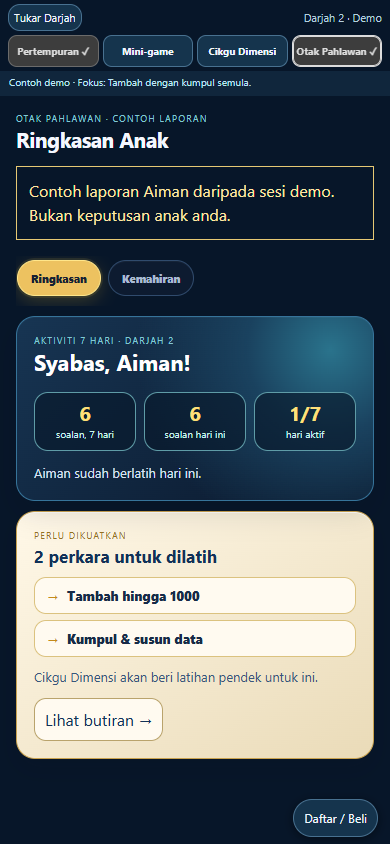
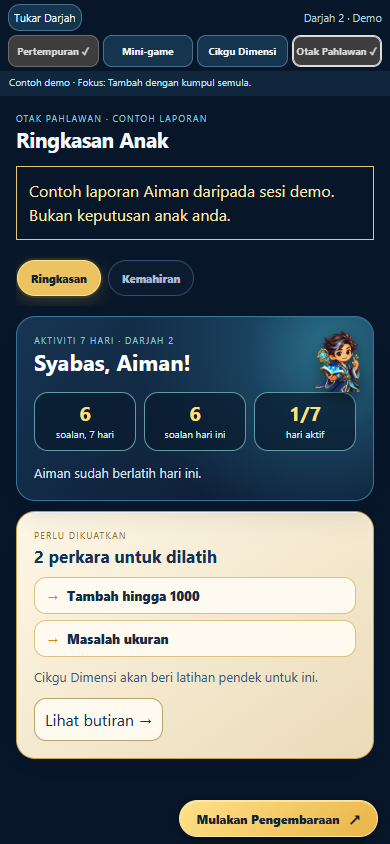
Use approved point-form demo explanations with isometric SVG decoration

Changed region(s): [[0.4615, 0.9242, 0.9846, 1.0], [0.8, 0.3697, 0.9231, 0.4929], [0.1846, 0.7393, 0.5231, 0.7701]]

diff --git a/index.html b/index.html
@@ -351,7 +351,7 @@
 <div id="guardianFocusOverlay" class="guardianFocusOverlay hidden" role="dialog" aria-modal="true" aria-labelledby="guardianFocusTitle"><div class="guardianFocusCard"><div class="eyebrow">LATIHAN FOKUS PENJAGA</div><h2 id="guardianFocusTitle">Kemahiran</h2><p id="guardianFocusEvidence"></p><p class="guardianFocusNote">Soalan dikunci pada kemahiran ini. Cikgu Dimensi akan beri petunjuk bertingkat dan turun kepada contoh lebih mudah apabila perlu.</p><div class="focusCount" aria-label="Bilangan soalan"><button type="button" data-focus-count="5" onclick="chooseGuardianCount(5)">5 soalan</button><button type="button" data-focus-count="10" onclick="chooseGuardianCount(10)">10 soalan</button><button type="button" data-focus-count="15" onclick="chooseGuardianCount(15)">15 soalan</button></div><div class="guardianFocusActions"><button class="btn primary" onclick="startGuardianFocus()">Mulakan latihan</button><button class="btn ghost" onclick="closeGuardianFocus()">Batal</button></div></div></div>
 </div>
 <script src="data/kssr/knowledge-graph.js?v=3.86.52"></script><script src="data/kssr/mastery-knowledge-v1.js?v=3.10.0"></script><script src="data/kssr/alignment-v3.9.0.js?v=3.10.0"></script><script src="data/kssr/d3-topic7-curriculum-correction-v3.38.0.js?v=3.38.0"></script><script src="data/kssr/d3-topic7-evidence-epoch-v3.39.0.js?v=3.39.0"></script><script src="data/kssr/d3-topic7-live-cutover-v3.40.0.js?v=3.52.0"></script><script src="data/kssr/d3-nonT7-live-isolation-v1.0.0.js?v=3.52.0"></script><script src="questions/helpers.js?v=3.87.12-mstack2"></script><script src="questions/d1/core.js?v=3.86.63"></script><script src="questions/d2/topic-1.js?v=3.86.60"></script><script src="questions/d2/topic-2.js"></script><script src="questions/d2/topic-3.js?v=3.85.41"></script><script src="questions/d2/topic-4.js"></script><script src="questions/d2/topic-5.js?v=3.85.27"></script><script src="questions/d2/topic-6.js"></script><script src="questions/d2/topic-7.js?v=3.86.96"></script><script src="questions/d2/topic-8.js"></script><script src="questions/d3/core.js?v=3.8.0"></script><script src="questions/d4/core.js?v=3.8.0"></script><script src="questions/d5/core.js?v=3.14.5"></script><script src="questions/d6/core.js?v=3.8.30"></script><script src="questions/kssr-archetypes-v3.9.0.js?v=3.12.0"></script><script src="questions/kssr-content-v3.11.js?v=3.87.9-mgroup1"></script><script src="questions/v2/dist/runtime.js?v=3.87.75"></script><script src="questions/v2/engine/d3-rollout.js?v=3.52.0"></script><script src="questions/v2/engine/legacy-adapter.js?v=3.86.87"></script><script src="js/engine/reading-pairs-v1.js?v=1.0.0"></script><script src="questions/focus-tags-d2-d5-v1.js?v=1.0.0"></script><script src="questions/index.js?v=3.87.0"></script><script src="js/engine/diagnostic-brain-v1.js?v=1.10.0"></script><script src="js/engine/diagnostic-targets-v1.js?v=1.8.0"></script>
-<script src="js/engine/diagnostic-recheck-v1.js?v=1.5.0"></script><script src="js/engine/review-queue-v1.js?v=1.0.0"></script><script src="js/rapid-lock-v1.js?v=1.4.3"></script><script src="js/minigame-telemetry-v1.js?v=1.5.0"></script><script src="js/engine/telemetry.js?v=3.56.0-diag2"></script><script src="js/engine/intervention.js?v=3.57.1"></script><script src="js/engine/frontier.js?v=3.57.1"></script><script src="js/engine/adaptive.js?v=3.85.18"></script><script src="js/heroes.js?v=3.86.72"></script><script src="js/progression.js?v=3.87.57"></script><script src="js/rewards-v2.js?v=3.85.54"></script><script src="js/learning.js?v=3.85.76"></script><script src="js/audio.js?v=3.85.17"></script><script src="js/combat-motion-v1.js?v=3.86.72"></script><script src="js/battle.js?v=3.86.31-diag1"></script><script src="js/parent-glance-v1.js?v=1.1.0"></script><script src="js/parent.js?v=3.87.1"></script><script src="js/worksheet-2p5d-v1.js?v=1.0.0"></script><script src="js/worksheet-graphics-v1.js?v=3.86.87"></script><script src="js/parent-learning-tools-v3.26.0.js?v=3.87.7"></script><script src="js/engine/focus-foundation-v1.js?v=3.87.1"></script><script src="js/guardian-focus.js?v=3.87.1"></script><script src="js/app.js?v=3.87.75"></script><script src="js/battle-story-v3.60.0.js?v=3.60.0"></script><script src="js/phase-3.6.4.js?v=3.85.18"></script><script src="js/dev-cikgu-dimensi-v3.24.10.js"></script><script src="js/dev-qsv2-v3.36.0.js"></script><script src="js/dev-qsv2-live-v3.40.0.js?v=3.52.0"></script><script src="js/version.js?v=3.87.78"></script><script src="js/pwa.js?v=3.87.71"></script><script src="js/gerai-wirayung-router.js?v=1.1.0"></script><script src="js/engine/focus-money-diagnostic-v2.js?v=2.0.0-shadow"></script><script src="js/engine/focus-time-diagnostic-v1.js?v=1.0.0"></script><script src="js/menara-jam-router.js?v=1.0.0"></script><script src="js/minigame-exit-guard-v1.js?v=3.86.44"></script><script src="js/wirayung-live-bridge.js?v=3.86.98"></script><script src="js/tapak-bina-router.js?v=3.86.52"></script><script src="js/tapak-bina-live-bridge.js?v=3.86.98"></script><script src="js/kedai-kek-router.js?v=1.0.0"></script><script src="js/bengkel-ajaib-router.js?v=1.0.1"></script><script src="js/gudang-harta-router.js?v=1.0.0"></script><script src="js/dapur-ramuan-router.js?v=3.86.48"></script><script src="js/pos-peninjau-router.js?v=3.86.48"></script><script src="js/lombong-permata-router.js?v=3.86.48"></script><script src="js/focus-mini-games-live-bridge.js?v=3.86.98"></script><script src="js/bug-report-v1.js?v=3.86.56"></script><link rel="stylesheet" href="css/bug-report-v1.css?v=3.86.56"><link rel="stylesheet" href="css/responsive-layout-v1.css?v=1.0.6"><link rel="stylesheet" href="css/mission-map-live-v1.css?v=1.0.1"><script defer src="js/dev-khazanah-v1.js?v=3.85.40"></script></body></html>
+<script src="js/engine/diagnostic-recheck-v1.js?v=1.5.0"></script><script src="js/engine/review-queue-v1.js?v=1.0.0"></script><script src="js/rapid-lock-v1.js?v=1.4.3"></script><script src="js/minigame-telemetry-v1.js?v=1.5.0"></script><script src="js/engine/telemetry.js?v=3.56.0-diag2"></script><script src="js/engine/intervention.js?v=3.57.1"></script><script src="js/engine/frontier.js?v=3.57.1"></script><script src="js/engine/adaptive.js?v=3.85.18"></script><script src="js/heroes.js?v=3.86.72"></script><script src="js/progression.js?v=3.87.57"></script><script src="js/rewards-v2.js?v=3.85.54"></script><script src="js/learning.js?v=3.85.76"></script><script src="js/audio.js?v=3.85.17"></script><script src="js/combat-motion-v1.js?v=3.86.72"></script><script src="js/battle.js?v=3.86.31-diag1"></script><script src="js/parent-glance-v1.js?v=1.1.0"></script><script src="js/parent.js?v=3.87.1"></script><script src="js/worksheet-2p5d-v1.js?v=1.0.0"></script><script src="js/worksheet-graphics-v1.js?v=3.86.87"></script><script src="js/parent-learning-tools-v3.26.0.js?v=3.87.7"></script><script src="js/engine/focus-foundation-v1.js?v=3.87.1"></script><script src="js/guardian-focus.js?v=3.87.1"></script><script src="js/app.js?v=3.87.75"></script><script src="js/battle-story-v3.60.0.js?v=3.60.0"></script><script src="js/phase-3.6.4.js?v=3.85.18"></script><script src="js/dev-cikgu-dimensi-v3.24.10.js"></script><script src="js/dev-qsv2-v3.36.0.js"></script><script src="js/dev-qsv2-live-v3.40.0.js?v=3.52.0"></script><script src="js/version.js?v=3.87.79"></script><script src="js/pwa.js?v=3.87.71"></script><script src="js/gerai-wirayung-router.js?v=1.1.0"></script><script src="js/engine/focus-money-diagnostic-v2.js?v=2.0.0-shadow"></script><script src="js/engine/focus-time-diagnostic-v1.js?v=1.0.0"></script><script src="js/menara-jam-router.js?v=1.0.0"></script><script src="js/minigame-exit-guard-v1.js?v=3.86.44"></script><script src="js/wirayung-live-bridge.js?v=3.86.98"></script><script src="js/tapak-bina-router.js?v=3.86.52"></script><script src="js/tapak-bina-live-bridge.js?v=3.86.98"></script><script src="js/kedai-kek-router.js?v=1.0.0"></script><script src="js/bengkel-ajaib-router.js?v=1.0.1"></script><script src="js/gudang-harta-router.js?v=1.0.0"></script><script src="js/dapur-ramuan-router.js?v=3.86.48"></script><script src="js/pos-peninjau-router.js?v=3.86.48"></script><script src="js/lombong-permata-router.js?v=3.86.48"></script><script src="js/focus-mini-games-live-bridge.js?v=3.86.98"></script><script src="js/bug-report-v1.js?v=3.86.56"></script><link rel="stylesheet" href="css/bug-report-v1.css?v=3.86.56"><link rel="stylesheet" href="css/responsive-layout-v1.css?v=1.0.6"><link rel="stylesheet" href="css/mission-map-live-v1.css?v=1.0.1"><script defer src="js/dev-khazanah-v1.js?v=3.85.40"></script></body></html>
 <script src="js/fraction-visuals-v2.js?v=3.87.77"></script><script src="js/fraction-answers-v1.js?v=3.85.08"></script><script src="questions/d1/fractions-audit-v1.js?v=3.86.63"></script>
 <link rel="stylesheet" href="css/fraction-visuals-v2.css?v=3.87.77">
 

diff --git a/jelajah-offer.html b/jelajah-offer.html
@@ -351,7 +351,7 @@
 <div id="guardianFocusOverlay" class="guardianFocusOverlay hidden" role="dialog" aria-modal="true" aria-labelledby="guardianFocusTitle"><div class="guardianFocusCard"><div class="eyebrow">LATIHAN FOKUS PENJAGA</div><h2 id="guardianFocusTitle">Kemahiran</h2><p id="guardianFocusEvidence"></p><p class="guardianFocusNote">Soalan dikunci pada kemahiran ini. Cikgu Dimensi akan beri petunjuk bertingkat dan turun kepada contoh lebih mudah apabila perlu.</p><div class="focusCount" aria-label="Bilangan soalan"><button type="button" data-focus-count="5" onclick="chooseGuardianCount(5)">5 soalan</button><button type="button" data-focus-count="10" onclick="chooseGuardianCount(10)">10 soalan</button><button type="button" data-focus-count="15" onclick="chooseGuardianCount(15)">15 soalan</button></div><div class="guardianFocusActions"><button class="btn primary" onclick="startGuardianFocus()">Mulakan latihan</button><button class="btn ghost" onclick="closeGuardianFocus()">Batal</button></div></div></div>
 </div>
 <script src="data/kssr/knowledge-graph.js?v=3.86.52"></script><script src="data/kssr/mastery-knowledge-v1.js?v=3.10.0"></script><script src="data/kssr/alignment-v3.9.0.js?v=3.10.0"></script><script src="data/kssr/d3-topic7-curriculum-correction-v3.38.0.js?v=3.38.0"></script><script src="data/kssr/d3-topic7-evidence-epoch-v3.39.0.js?v=3.39.0"></script><script src="data/kssr/d3-topic7-live-cutover-v3.40.0.js?v=3.52.0"></script><script src="data/kssr/d3-nonT7-live-isolation-v1.0.0.js?v=3.52.0"></script><script src="questions/helpers.js?v=3.87.12-mstack2"></script><script src="questions/d1/core.js?v=3.86.63"></script><script src="questions/d2/topic-1.js?v=3.86.60"></script><script src="questions/d2/topic-2.js"></script><script src="questions/d2/topic-3.js?v=3.85.41"></script><script src="questions/d2/topic-4.js"></script><script src="questions/d2/topic-5.js?v=3.85.27"></script><script src="questions/d2/topic-6.js"></script><script src="questions/d2/topic-7.js?v=3.86.96"></script><script src="questions/d2/topic-8.js"></script><script src="questions/d3/core.js?v=3.8.0"></script><script src="questions/d4/core.js?v=3.8.0"></script><script src="questions/d5/core.js?v=3.14.5"></script><script src="questions/d6/core.js?v=3.8.30"></script><script src="questions/kssr-archetypes-v3.9.0.js?v=3.12.0"></script><script src="questions/kssr-content-v3.11.js?v=3.87.9-mgroup1"></script><script src="questions/v2/dist/runtime.js?v=3.87.75"></script><script src="questions/v2/engine/d3-rollout.js?v=3.52.0"></script><script src="questions/v2/engine/legacy-adapter.js?v=3.86.87"></script><script src="js/engine/reading-pairs-v1.js?v=1.0.0"></script><script src="questions/focus-tags-d2-d5-v1.js?v=1.0.0"></script><script src="questions/index.js?v=3.87.0"></script><script src="js/engine/diagnostic-brain-v1.js?v=1.10.0"></script><script src="js/engine/diagnostic-targets-v1.js?v=1.8.0"></script>
-<script src="js/engine/diagnostic-recheck-v1.js?v=1.5.0"></script><script src="js/engine/review-queue-v1.js?v=1.0.0"></script><script src="js/rapid-lock-v1.js?v=1.4.3"></script><script src="js/minigame-telemetry-v1.js?v=1.5.0"></script><script src="js/engine/telemetry.js?v=3.56.0-diag2"></script><script src="js/engine/intervention.js?v=3.57.1"></script><script src="js/engine/frontier.js?v=3.57.1"></script><script src="js/engine/adaptive.js?v=3.85.18"></script><script src="js/heroes.js?v=3.86.72"></script><script src="js/progression.js?v=3.87.57"></script><script src="js/rewards-v2.js?v=3.85.54"></script><script src="js/learning.js?v=3.85.76"></script><script src="js/audio.js?v=3.85.17"></script><script src="js/combat-motion-v1.js?v=3.86.72"></script><script src="js/battle.js?v=3.86.31-diag1"></script><script src="js/parent-glance-v1.js?v=1.1.0"></script><script src="js/parent.js?v=3.87.1"></script><script src="js/worksheet-2p5d-v1.js?v=1.0.0"></script><script src="js/worksheet-graphics-v1.js?v=3.86.87"></script><script src="js/parent-learning-tools-v3.26.0.js?v=3.87.7"></script><script src="js/engine/focus-foundation-v1.js?v=3.87.1"></script><script src="js/guardian-focus.js?v=3.87.1"></script><script src="js/app.js?v=3.87.75"></script><script src="js/battle-story-v3.60.0.js?v=3.60.0"></script><script src="js/phase-3.6.4.js?v=3.85.18"></script><script src="js/dev-cikgu-dimensi-v3.24.10.js"></script><script src="js/dev-qsv2-v3.36.0.js"></script><script src="js/dev-qsv2-live-v3.40.0.js?v=3.52.0"></script><script src="js/version.js?v=3.87.78"></script><script src="js/pwa.js?v=3.87.71"></script><script src="js/gerai-wirayung-router.js?v=1.1.0"></script><script src="js/engine/focus-money-diagnostic-v2.js?v=2.0.0-shadow"></script><script src="js/engine/focus-time-diagnostic-v1.js?v=1.0.0"></script><script src="js/menara-jam-router.js?v=1.0.0"></script><script src="js/minigame-exit-guard-v1.js?v=3.86.44"></script><script src="js/wirayung-live-bridge.js?v=3.86.98"></script><script src="js/tapak-bina-router.js?v=3.86.52"></script><script src="js/tapak-bina-live-bridge.js?v=3.86.98"></script><script src="js/kedai-kek-router.js?v=1.0.0"></script><script src="js/bengkel-ajaib-router.js?v=1.0.1"></script><script src="js/gudang-harta-router.js?v=1.0.0"></script><script src="js/dapur-ramuan-router.js?v=3.86.48"></script><script src="js/pos-peninjau-router.js?v=3.86.48"></script><script src="js/lombong-permata-router.js?v=3.86.48"></script><script src="js/focus-mini-games-live-bridge.js?v=3.86.98"></script><script src="js/bug-report-v1.js?v=3.86.56"></script><link rel="stylesheet" href="css/bug-report-v1.css?v=3.86.56"><link rel="stylesheet" href="css/responsive-layout-v1.css?v=1.0.6"><link rel="stylesheet" href="css/mission-map-live-v1.css?v=1.0.1"><script defer src="js/dev-khazanah-v1.js?v=3.85.40"></script></body></html>
+<script src="js/engine/diagnostic-recheck-v1.js?v=1.5.0"></script><script src="js/engine/review-queue-v1.js?v=1.0.0"></script><script src="js/rapid-lock-v1.js?v=1.4.3"></script><script src="js/minigame-telemetry-v1.js?v=1.5.0"></script><script src="js/engine/telemetry.js?v=3.56.0-diag2"></script><script src="js/engine/intervention.js?v=3.57.1"></script><script src="js/engine/frontier.js?v=3.57.1"></script><script src="js/engine/adaptive.js?v=3.85.18"></script><script src="js/heroes.js?v=3.86.72"></script><script src="js/progression.js?v=3.87.57"></script><script src="js/rewards-v2.js?v=3.85.54"></script><script src="js/learning.js?v=3.85.76"></script><script src="js/audio.js?v=3.85.17"></script><script src="js/combat-motion-v1.js?v=3.86.72"></script><script src="js/battle.js?v=3.86.31-diag1"></script><script src="js/parent-glance-v1.js?v=1.1.0"></script><script src="js/parent.js?v=3.87.1"></script><script src="js/worksheet-2p5d-v1.js?v=1.0.0"></script><script src="js/worksheet-graphics-v1.js?v=3.86.87"></script><script src="js/parent-learning-tools-v3.26.0.js?v=3.87.7"></script><script src="js/engine/focus-foundation-v1.js?v=3.87.1"></script><script src="js/guardian-focus.js?v=3.87.1"></script><script src="js/app.js?v=3.87.75"></script><script src="js/battle-story-v3.60.0.js?v=3.60.0"></script><script src="js/phase-3.6.4.js?v=3.85.18"></script><script src="js/dev-cikgu-dimensi-v3.24.10.js"></script><script src="js/dev-qsv2-v3.36.0.js"></script><script src="js/dev-qsv2-live-v3.40.0.js?v=3.52.0"></script><script src="js/version.js?v=3.87.79"></script><script src="js/pwa.js?v=3.87.71"></script><script src="js/gerai-wirayung-router.js?v=1.1.0"></script><script src="js/engine/focus-money-diagnostic-v2.js?v=2.0.0-shadow"></script><script src="js/engine/focus-time-diagnostic-v1.js?v=1.0.0"></script><script src="js/menara-jam-router.js?v=1.0.0"></script><script src="js/minigame-exit-guard-v1.js?v=3.86.44"></script><script src="js/wirayung-live-bridge.js?v=3.86.98"></script><script src="js/tapak-bina-router.js?v=3.86.52"></script><script src="js/tapak-bina-live-bridge.js?v=3.86.98"></script><script src="js/kedai-kek-router.js?v=1.0.0"></script><script src="js/bengkel-ajaib-router.js?v=1.0.1"></script><script src="js/gudang-harta-router.js?v=1.0.0"></script><script src="js/dapur-ramuan-router.js?v=3.86.48"></script><script src="js/pos-peninjau-router.js?v=3.86.48"></script><script src="js/lombong-permata-router.js?v=3.86.48"></script><script src="js/focus-mini-games-live-bridge.js?v=3.86.98"></script><script src="js/bug-report-v1.js?v=3.86.56"></script><link rel="stylesheet" href="css/bug-report-v1.css?v=3.86.56"><link rel="stylesheet" href="css/responsive-layout-v1.css?v=1.0.6"><link rel="stylesheet" href="css/mission-map-live-v1.css?v=1.0.1"><script defer src="js/dev-khazanah-v1.js?v=3.85.40"></script></body></html>
 <script src="js/fraction-visuals-v2.js?v=3.87.77"></script><script src="js/fraction-answers-v1.js?v=3.85.08"></script><script src="questions/d1/fractions-audit-v1.js?v=3.86.63"></script>
 <link rel="stylesheet" href="css/fraction-visuals-v2.css?v=3.87.77">
 

diff --git a/jelajah-runtime.html b/jelajah-runtime.html
@@ -351,7 +351,7 @@
 <div id="guardianFocusOverlay" class="guardianFocusOverlay hidden" role="dialog" aria-modal="true" aria-labelledby="guardianFocusTitle"><div class="guardianFocusCard"><div class="eyebrow">LATIHAN FOKUS PENJAGA</div><h2 id="guardianFocusTitle">Kemahiran</h2><p id="guardianFocusEvidence"></p><p class="guardianFocusNote">Soalan dikunci pada kemahiran ini. Cikgu Dimensi akan beri petunjuk bertingkat dan turun kepada contoh lebih mudah apabila perlu.</p><div class="focusCount" aria-label="Bilangan soalan"><button type="button" data-focus-count="5" onclick="chooseGuardianCount(5)">5 soalan</button><button type="button" data-focus-count="10" onclick="chooseGuardianCount(10)">10 soalan</button><button type="button" data-focus-count="15" onclick="chooseGuardianCount(15)">15 soalan</button></div><div class="guardianFocusActions"><button class="btn primary" onclick="startGuardianFocus()">Mulakan latihan</button><button class="btn ghost" onclick="closeGuardianFocus()">Batal</button></div></div></div>
 </div>
 <script src="data/kssr/knowledge-graph.js?v=3.86.52"></script><script src="data/kssr/mastery-knowledge-v1.js?v=3.10.0"></script><script src="data/kssr/alignment-v3.9.0.js?v=3.10.0"></script><script src="data/kssr/d3-topic7-curriculum-correction-v3.38.0.js?v=3.38.0"></script><script src="data/kssr/d3-topic7-evidence-epoch-v3.39.0.js?v=3.39.0"></script><script src="data/kssr/d3-topic7-live-cutover-v3.40.0.js?v=3.52.0"></script><script src="data/kssr/d3-nonT7-live-isolation-v1.0.0.js?v=3.52.0"></script><script src="questions/helpers.js?v=3.87.12-mstack2"></script><script src="questions/d1/core.js?v=3.86.63"></script><script src="questions/d2/topic-1.js?v=3.86.60"></script><script src="questions/d2/topic-2.js"></script><script src="questions/d2/topic-3.js?v=3.85.41"></script><script src="questions/d2/topic-4.js"></script><script src="questions/d2/topic-5.js?v=3.85.27"></script><script src="questions/d2/topic-6.js"></script><script src="questions/d2/topic-7.js?v=3.86.96"></script><script src="questions/d2/topic-8.js"></script><script src="questions/d3/core.js?v=3.8.0"></script><script src="questions/d4/core.js?v=3.8.0"></script><script src="questions/d5/core.js?v=3.14.5"></script><script src="questions/d6/core.js?v=3.8.30"></script><script src="questions/kssr-archetypes-v3.9.0.js?v=3.12.0"></script><script src="questions/kssr-content-v3.11.js?v=3.87.9-mgroup1"></script><script src="questions/v2/dist/runtime.js?v=3.87.75"></script><script src="questions/v2/engine/d3-rollout.js?v=3.52.0"></script><script src="questions/v2/engine/legacy-adapter.js?v=3.86.87"></script><script src="js/engine/reading-pairs-v1.js?v=1.0.0"></script><script src="questions/focus-tags-d2-d5-v1.js?v=1.0.0"></script><script src="questions/index.js?v=3.87.0"></script><script src="js/engine/diagnostic-brain-v1.js?v=1.10.0"></script><script src="js/engine/diagnostic-targets-v1.js?v=1.8.0"></script>
-<script src="js/engine/diagnostic-recheck-v1.js?v=1.5.0"></script><script src="js/engine/review-queue-v1.js?v=1.0.0"></script><script src="js/rapid-lock-v1.js?v=1.4.3"></script><script src="js/minigame-telemetry-v1.js?v=1.5.0"></script><script src="js/engine/telemetry.js?v=3.56.0-diag2"></script><script src="js/engine/intervention.js?v=3.57.1"></script><script src="js/engine/frontier.js?v=3.57.1"></script><script src="js/engine/adaptive.js?v=3.85.18"></script><script src="js/heroes.js?v=3.86.72"></script><script src="js/progression.js?v=3.87.57"></script><script src="js/rewards-v2.js?v=3.85.54"></script><script src="js/learning.js?v=3.85.76"></script><script src="js/audio.js?v=3.85.17"></script><script src="js/combat-motion-v1.js?v=3.86.72"></script><script src="js/battle.js?v=3.86.31-diag1"></script><script src="js/parent-glance-v1.js?v=1.1.0"></script><script src="js/parent.js?v=3.87.1"></script><script src="js/worksheet-2p5d-v1.js?v=1.0.0"></script><script src="js/worksheet-graphics-v1.js?v=3.86.87"></script><script src="js/parent-learning-tools-v3.26.0.js?v=3.87.7"></script><script src="js/engine/focus-foundation-v1.js?v=3.87.1"></script><script src="js/guardian-focus.js?v=3.87.1"></script><script src="js/app.js?v=3.87.75"></script><script src="js/battle-story-v3.60.0.js?v=3.60.0"></script><script src="js/phase-3.6.4.js?v=3.85.18"></script><script src="js/dev-cikgu-dimensi-v3.24.10.js"></script><script src="js/dev-qsv2-v3.36.0.js"></script><script src="js/dev-qsv2-live-v3.40.0.js?v=3.52.0"></script><script src="js/version.js?v=3.87.78"></script><script src="js/pwa.js?v=3.87.71"></script><script src="js/gerai-wirayung-router.js?v=1.1.0"></script><script src="js/engine/focus-money-diagnostic-v2.js?v=2.0.0-shadow"></script><script src="js/engine/focus-time-diagnostic-v1.js?v=1.0.0"></script><script src="js/menara-jam-router.js?v=1.0.0"></script><script src="js/minigame-exit-guard-v1.js?v=3.86.44"></script><script src="js/wirayung-live-bridge.js?v=3.86.98"></script><script src="js/tapak-bina-router.js?v=3.86.52"></script><script src="js/tapak-bina-live-bridge.js?v=3.86.98"></script><script src="js/kedai-kek-router.js?v=1.0.0"></script><script src="js/bengkel-ajaib-router.js?v=1.0.1"></script><script src="js/gudang-harta-router.js?v=1.0.0"></script><script src="js/dapur-ramuan-router.js?v=3.86.48"></script><script src="js/pos-peninjau-router.js?v=3.86.48"></script><script src="js/lombong-permata-router.js?v=3.86.48"></script><script src="js/focus-mini-games-live-bridge.js?v=3.86.98"></script><link rel="stylesheet" href="css/bug-report-v1.css?v=3.86.56"><link rel="stylesheet" href="css/responsive-layout-v1.css?v=1.0.6"><link rel="stylesheet" href="css/mission-map-live-v1.css?v=1.0.1"><script defer src="js/dev-khazanah-v1.js?v=3.85.40"></script></body></html>
+<script src="js/engine/diagnostic-recheck-v1.js?v=1.5.0"></script><script src="js/engine/review-queue-v1.js?v=1.0.0"></script><script src="js/rapid-lock-v1.js?v=1.4.3"></script><script src="js/minigame-telemetry-v1.js?v=1.5.0"></script><script src="js/engine/telemetry.js?v=3.56.0-diag2"></script><script src="js/engine/intervention.js?v=3.57.1"></script><script src="js/engine/frontier.js?v=3.57.1"></script><script src="js/engine/adaptive.js?v=3.85.18"></script><script src="js/heroes.js?v=3.86.72"></script><script src="js/progression.js?v=3.87.57"></script><script src="js/rewards-v2.js?v=3.85.54"></script><script src="js/learning.js?v=3.85.76"></script><script src="js/audio.js?v=3.85.17"></script><script src="js/combat-motion-v1.js?v=3.86.72"></script><script src="js/battle.js?v=3.86.31-diag1"></script><script src="js/parent-glance-v1.js?v=1.1.0"></script><script src="js/parent.js?v=3.87.1"></script><script src="js/worksheet-2p5d-v1.js?v=1.0.0"></script><script src="js/worksheet-graphics-v1.js?v=3.86.87"></script><script src="js/parent-learning-tools-v3.26.0.js?v=3.87.7"></script><script src="js/engine/focus-foundation-v1.js?v=3.87.1"></script><script src="js/guardian-focus.js?v=3.87.1"></script><script src="js/app.js?v=3.87.75"></script><script src="js/battle-story-v3.60.0.js?v=3.60.0"></script><script src="js/phase-3.6.4.js?v=3.85.18"></script><script src="js/dev-cikgu-dimensi-v3.24.10.js"></script><script src="js/dev-qsv2-v3.36.0.js"></script><script src="js/dev-qsv2-live-v3.40.0.js?v=3.52.0"></script><script src="js/version.js?v=3.87.79"></script><script src="js/pwa.js?v=3.87.71"></script><script src="js/gerai-wirayung-router.js?v=1.1.0"></script><script src="js/engine/focus-money-diagnostic-v2.js?v=2.0.0-shadow"></script><script src="js/engine/focus-time-diagnostic-v1.js?v=1.0.0"></script><script src="js/menara-jam-router.js?v=1.0.0"></script><script src="js/minigame-exit-guard-v1.js?v=3.86.44"></script><script src="js/wirayung-live-bridge.js?v=3.86.98"></script><script src="js/tapak-bina-router.js?v=3.86.52"></script><script src="js/tapak-bina-live-bridge.js?v=3.86.98"></script><script src="js/kedai-kek-router.js?v=1.0.0"></script><script src="js/bengkel-ajaib-router.js?v=1.0.1"></script><script src="js/gudang-harta-router.js?v=1.0.0"></script><script src="js/dapur-ramuan-router.js?v=3.86.48"></script><script src="js/pos-peninjau-router.js?v=3.86.48"></script><script src="js/lombong-permata-router.js?v=3.86.48"></script><script src="js/focus-mini-games-live-bridge.js?v=3.86.98"></script><link rel="stylesheet" href="css/bug-report-v1.css?v=3.86.56"><link rel="stylesheet" href="css/responsive-layout-v1.css?v=1.0.6"><link rel="stylesheet" href="css/mission-map-live-v1.css?v=1.0.1"><script defer src="js/dev-khazanah-v1.js?v=3.85.40"></script></body></html>
 <script src="js/fraction-visuals-v2.js?v=3.87.77"></script><script src="js/fraction-answers-v1.js?v=3.85.08"></script><script src="questions/d1/fractions-audit-v1.js?v=3.86.63"></script>
 <link rel="stylesheet" href="css/fraction-visuals-v2.css?v=3.87.77">
 

diff --git a/js/jelajah-v1.js b/js/jelajah-v1.js
@@ -8,13 +8,13 @@
  function cards(){$('cards').hidden=!grade;$('cards').innerHTML=names.map((name,i)=>`<button data-card="${i}" class="${done.has(i)?'done':''}" ${i&&!battleFinished?'disabled':''} ${active===i?'aria-current="page"':''}><img src="${images[i]}" alt=""><strong>${name}</strong><small>${done.has(i)?'✓ Selesai · ulang':i&&!battleFinished?'Selepas battle':'Teroka'}</small></button>`).join('')}
  function entry(){leave();grade=0;done=new Set();battleFinished=false;log=[];cards();$('changeGrade').hidden=true;$('tourLabel').textContent='Demo Jelajah · Pilih darjah';$('status').textContent='Tanpa akaun · Cuba percuma';$('content').innerHTML=`<section class="panel grade-entry"><img class="entry-hero" src="assets/heroes/wira/frames/idle-loop-0-v1.webp" alt="Wira"><h1>Pilih Darjah</h1><p>Cuba enam soalan pertempuran. Kemudian lihat simulasi bantuan melalui mini-game, Cikgu Dimensi dan contoh laporan.</p><div class="grade-grid">${[1,2,3,4,5,6].map(g=>`<button data-grade="${g}">Darjah ${g}</button>`).join('')}</div><p class="lead">Ini demonstrasi. Bukan penilaian sebenar anak anda.</p></section>`}
  function startBattle(){leave();active=0;log=[];cards();$('changeGrade').hidden=false;$('tourLabel').textContent=`Darjah ${grade} · Demo`;$('status').textContent='Soalan 1–6: kamu jawab. Selepas itu, pilih Mulakan Autopilot.';$('content').innerHTML=`<iframe title="Battlefield asal · Darjah ${grade}" src="jelajah-runtime.html?grade=${grade}" allow="autoplay"></iframe>`;frame=$('content').querySelector('iframe')}
- function complete(index){done.add(index);cards();leave();$('status').textContent=`${names[index]} selesai. Boleh ulang atau pilih kad seterusnya.`;$('content').innerHTML=`<section class="panel"><h2>${names[index]} selesai</h2><p>${index===1?'Syabas! Teruskan dengan latihan Cikgu Dimensi.':'Syabas! Latihan bersama Cikgu Dimensi selesai.'}</p><button data-open="${index}" class="primary">Ulang aktiviti</button><button data-open="${index===1?2:3}">Teruskan ke ${names[index===1?2:3]}</button></section>`}
- function intro(title,text,action){$('activityIntroTitle').textContent=title;$('activityIntroText').textContent=text;$('activityIntroStart').onclick=()=>{$('activityIntro').close();action()};$('activityIntro').showModal()}
+ function complete(index){done.add(index);cards();leave();$('status').textContent=`${names[index]} selesai. Boleh ulang atau pilih kad seterusnya.`;$('content').innerHTML=`<section class="panel"><h2>${names[index]} selesai</h2>${PAJelajahCopy.markup(index===1?'mini':'coach','after',scenario().topic)}<button data-open="${index}" class="primary">Ulang aktiviti</button><button data-open="${index===1?2:3}">Teruskan ke ${names[index===1?2:3]}</button></section>`}
+ function intro(title,text,action){$('activityIntroTitle').textContent=title;$('activityIntroText').innerHTML=text;$('activityIntroStart').onclick=()=>{$('activityIntro').close();action()};$('activityIntro').showModal()}
  function show(index){if(index&&!battleFinished)return;if(index===0){startBattle();return}leave();active=index;cards();const s=scenario(),token=generation;$('status').textContent=`Contoh demo · Fokus: ${s.topic}.`;if(index===3){brain();return}
-  const launch=()=>{$('content').innerHTML='<div class="activity-host" id="activityHost"></div>';const options={snapshot:battleSnapshot,onComplete:()=>{if(token===generation)complete(index)},onExit:()=>{if(token===generation)summary()},onManualComplete:info=>intro('Jom tengok cara','Bagus! Sekarang lihat dua contoh Wira membimbing langkah demi langkah.',()=>info.startAutopilot())};cleanup=(index===1?PAJelajahMiniGame:PAJelajahCoach).mount($('activityHost'),s,options)};
-  intro(index===1?'Berlatih sambil bermain':'Cikgu Dimensi · Latihan campuran',index===1?`Anak kerap tersalah dalam ${s.topic.toLowerCase()}? Mini-game ini membantu menguatkan kemahiran itu. Cuba tiga soalan, kemudian lihat cara Wira membantu. Ini contoh demo.`:`Cikgu Dimensi memberi latihan campuran, dengan lebih soalan tentang ${s.topic.toLowerCase()}, seperti dalam contoh tadi. Cuba enam soalan latihan pilihan Cikgu Dimensi.`,launch)
+  const launch=()=>{$('content').innerHTML='<div class="activity-host" id="activityHost"></div>';const options={snapshot:battleSnapshot,onComplete:()=>{if(token===generation)complete(index)},onExit:()=>{if(token===generation)summary()},onManualComplete:info=>intro('Jom tengok cara',PAJelajahCopy.markup('guide','before'),()=>info.startAutopilot())};cleanup=(index===1?PAJelajahMiniGame:PAJelajahCoach).mount($('activityHost'),s,options)};
+  intro(index===1?'Berlatih sambil bermain':'Cikgu Dimensi · Latihan campuran',PAJelajahCopy.markup(index===1?'mini':'coach','before',s.topic),launch)
  }
- function summary(){leave();cards();$('status').textContent='Battle selesai. Pilih mini-game atau Cikgu Dimensi; lihat contoh laporan selepas itu.';$('content').innerHTML=`<section class="panel"><h2>Aurora berjaya diselamatkan!</h2><p>Contoh tadi menunjukkan kesilapan dalam ${scenario().topic.toLowerCase()}.</p><p>Jom cuba latihan dan permainan untuk menguatkan kemahiran ini.</p><button data-open="1" class="primary">Main mini-game</button><button data-open="2">Jumpa Cikgu Dimensi</button></section>`}
+ function summary(){leave();cards();$('status').textContent='Battle selesai. Pilih mini-game atau Cikgu Dimensi; lihat contoh laporan selepas itu.';$('content').innerHTML=`<section class="panel"><h2>Aurora berjaya diselamatkan!</h2>${PAJelajahCopy.markup('battle','after',scenario().topic)}<button data-open="1" class="primary">Main mini-game</button><button data-open="2">Jumpa Cikgu Dimensi</button></section>`}
  function brain(){done.add(3);cards();$('content').innerHTML=`<section id="parent" class="jelajahParent"><div class="parentTop"><div><div class="eyebrow">OTAK PAHLAWAN · CONTOH LAPORAN</div><h2>Ringkasan Anak</h2></div></div><p class="report-notice">Contoh laporan Aiman daripada sesi demo. Bukan keputusan anak anda.</p><div class="tabs parentTabs"><button data-report="summary" class="active">Ringkasan</button><button data-report="core">Kemahiran</button></div><div id="summaryTab">${battleSnapshot?.reportMarkup||''}</div><div id="coreTab" hidden>${battleSnapshot?.detailMarkup||''}</div></section>`}
  window.tab=name=>{const detail=name==='core';$('summaryTab').hidden=detail;$('coreTab').hidden=!detail;document.querySelectorAll('[data-report]').forEach(b=>b.classList.toggle('active',b.dataset.report===name))};
  $('cards').onclick=e=>{const b=e.target.closest('[data-card]');if(b&&!b.disabled)show(Number(b.dataset.card))};$('changeGrade').onclick=entry;
@@ -34,5 +34,5 @@
   if(d.type==='autopilot-ready'&&!$('autopilotDialog').open)$('autopilotDialog').showModal();
   if(d.type==='resolved')log.push({index:d.index,correct:d.correct,value:d.value,simulated:d.simulated});
   if(d.type==='finished'){battleSnapshot=d.snapshot;battleFinished=true;done.add(0);summary()}
- });entry();
+ });$('autopilotText').innerHTML=PAJelajahCopy.markup('battle','before');entry();
 })();

diff --git a/js/jelajah-copy-v1.js b/js/jelajah-copy-v1.js
@@ -1,0 +1,10 @@
+/* Approved parent copy and decorative static SVG; fun-isometric style, Kelvin Adithya (MIT). */
+(()=>{'use strict';
+const icons={"battle": "<svg viewBox=\"0 0 100 100\" aria-hidden=\"true\"><g stroke=\"#111827\" stroke-width=\"3.5\" stroke-linejoin=\"miter\"><path fill=\"#386d9f\" d=\"M15 32 62 12 89 28 89 68 43 88 15 71Z\"/><path fill=\"#ffe18a\" d=\"m15 32 47-20 27 16-46 21Z\"/><path fill=\"#fff4d1\" d=\"m15 32 28 17v39L15 71Z\"/><path fill=\"#fff\" d=\"m45 36 12-5 9 5-12 5Z\"/><path d=\"m59 54 15-7m-15 20 15-7\" fill=\"none\"/></g></svg>", "mini": "<svg viewBox=\"0 0 100 100\" aria-hidden=\"true\"><g stroke=\"#111827\" stroke-width=\"3.5\" stroke-linejoin=\"miter\"><path fill=\"#386d9f\" d=\"m16 44 13-21 43-5 16 20-2 32-13 8-14-14-24 4-10 13-14-5Z\"/><path fill=\"#91d5c3\" d=\"m16 37 13-21 43-5 16 20-2 32-13 8-14-14-24 4-10 13-14-5Z\"/><path d=\"M31 31v20m-10-8 20-5\" fill=\"none\"/><circle cx=\"66\" cy=\"31\" r=\"4\" fill=\"#ffe18a\"/><circle cx=\"76\" cy=\"44\" r=\"4\" fill=\"#ffe18a\"/></g></svg>", "coach": "<svg viewBox=\"0 0 100 100\" aria-hidden=\"true\"><g stroke=\"#111827\" stroke-width=\"3.5\" stroke-linejoin=\"miter\"><path fill=\"#386d9f\" d=\"m14 37 38-20 37 18v37L51 91 14 72Z\"/><path fill=\"#fff4d1\" d=\"m14 30 38-20 37 18-38 20Z\"/><path fill=\"#ffe18a\" d=\"m14 30 37 18v36L14 65Z\"/><path fill=\"#fff\" d=\"m51 48 38-20v37L51 84Z\"/><path d=\"m24 43 17 8m-17 5 17 8m21-14 17-9m-17 22 17-9\" fill=\"none\"/></g></svg>"};
+const copy={"battle": {"before": ["Enam soalan seterusnya dijawab secara automatik.", "Beberapa jawapan sengaja disalahkan untuk menunjukkan cara kelemahan dikenal pasti.", "Ini contoh demo, bukan penilaian anak anda."], "after": ["Contoh tadi menunjukkan kesilapan berulang pada {topik}.", "Soalan sejenis diberi untuk menyemak kefahaman.", "Seterusnya: mini-game dan latihan untuk kemahiran itu."]}, "mini": {"before": ["Dipilih mengikut kemahiran yang perlukan pengukuhan.", "Dalam demo ini, permainan berkait dengan {topik} yang kerap tersalah tadi.", "Cuba 3 soalan, kemudian lihat 2 contoh bantuan Wira. Tekan Seterusnya ikut keselesaan anda."], "after": ["Wira membantu apabila anak belum memahami caranya.", "Anak diberi peluang mencuba lagi untuk menguatkan kemahiran."]}, "coach": {"before": ["Soalan campuran membantu mengenal pasti tahap kefahaman.", "Kemahiran yang belum kukuh diberi perhatian, termasuk {topik} dalam contoh tadi.", "Cuba 6 soalan pilihan Cikgu Dimensi."], "after": ["Jawapan membantu Cikgu Dimensi menyusun latihan seterusnya.", "Buka Otak Pahlawan untuk melihat contoh ringkasan ibu bapa."]}, "guide": {"before": ["Lihat 2 contoh Wira membimbing langkah demi langkah.", "Tekan Seterusnya apabila anda sudah bersedia."]}};
+const escape=s=>String(s).replace(/[&<>"']/g,c=>({'&':'&amp;','<':'&lt;','>':'&gt;','"':'&quot;',"'":'&#39;'}[c]));
+window.PAJelajahCopy={markup(kind,phase,topic='kemahiran ini'){
+ const icon=icons[kind]||icons.mini,points=copy[kind][phase];
+ return `<div class="jelajah-copy"><div class="jelajah-copy-icon">${icon}</div><ul>${points.map(p=>`<li>${escape(p.replace('{topik}',topic.toLowerCase()))}</li>`).join('')}</ul></div>`;
+}};
+})();

diff --git a/demo-jelajah.html b/demo-jelajah.html
@@ -1,6 +1,6 @@
 <!doctype html><html lang="ms"><head><meta charset="utf-8"><meta name="viewport" content="width=device-width,initial-scale=1,viewport-fit=cover"><meta name="robots" content="noindex,nofollow"><title>Pahlawan Angka · Demo Jelajah V1</title><link rel="stylesheet" href="css/parent-dashboard-v3.25.4.css"><link rel="stylesheet" href="css/jelajah-v1.css"></head><body>
 <div class="tour"><header><button id="changeGrade" hidden>Tukar Darjah</button><small id="tourLabel">Demo Jelajah · Pilih darjah</small></header><nav id="cards" aria-label="Jelajah demo" hidden></nav><p id="status" role="status">Cuba pertempuran, kemudian lihat cara Pahlawan Angka membantu.</p><main id="content"></main><footer><div id="offers" hidden><button data-offer="daftar">Daftar Percuma</button><button data-offer="pakej">Lihat Pakej</button></div><button id="buy" aria-expanded="false" aria-controls="offers">Mulakan Pengembaraan <span aria-hidden="true">↗</span></button></footer></div>
-<dialog id="autopilotDialog" aria-labelledby="autopilotTitle"><h2 id="autopilotTitle">Lihat contoh bantuan</h2><p>Sekarang tengok bagaimana Pahlawan Angka membantu apabila murid berulang kali tersalah jawab. Enam soalan seterusnya ialah simulasi automatik.</p><button id="startAutopilot" class="primary">Mulakan Autopilot</button></dialog>
+<dialog id="autopilotDialog" aria-labelledby="autopilotTitle"><h2 id="autopilotTitle">Lihat contoh jawapan murid</h2><div id="autopilotText"></div><button id="startAutopilot" class="primary">Mulakan Autopilot</button></dialog>
 <dialog id="offerDialog" aria-label="Daftar dan pakej"><button id="closeOffer">Tutup · Sambung demo</button><iframe id="offerFrame" title="Daftar dan pakej Pahlawan Angka"></iframe></dialog>
-<dialog id="activityIntro" aria-labelledby="activityIntroTitle"><h2 id="activityIntroTitle"></h2><p id="activityIntroText"></p><button class="primary" id="activityIntroStart">Mula</button></dialog>
-<script src="js/engine/diagnostic-targets-v1.js"></script><script src="js/jelajah-scenarios-v1.js"></script><script src="js/jelajah-minigame-v2.js"></script><script src="js/jelajah-coach-v2.js"></script><script src="js/jelajah-v1.js"></script></body></html>
+<dialog id="activityIntro" aria-labelledby="activityIntroTitle"><h2 id="activityIntroTitle"></h2><div id="activityIntroText"></div><button class="primary" id="activityIntroStart">Mula</button></dialog>
+<script src="js/engine/diagnostic-targets-v1.js"></script><script src="js/jelajah-scenarios-v1.js"></script><script src="js/jelajah-minigame-v2.js"></script><script src="js/jelajah-coach-v2.js"></script><script src="js/jelajah-copy-v1.js"></script><script src="js/jelajah-v1.js"></script></body></html>

diff --git a/css/jelajah-v1.css b/css/jelajah-v1.css
@@ -11,3 +11,5 @@
 .pa-jelajah-game-toolbar{display:flex;align-items:center;justify-content:space-between;gap:8px;padding:4px 8px}.pa-jelajah-next{font-size:13px;padding:8px 14px;min-height:42px}
 
 footer{flex-wrap:wrap}#buy{display:flex;align-items:center;gap:9px;padding:9px 16px;background:linear-gradient(135deg,#ffe18a,#e9b546);border-color:#ffe5a2;color:#172238;font-weight:800;box-shadow:0 3px 12px #0005,inset 0 1px #fff7}#buy:hover{background:#ffe8a2}#buy span{font-size:17px;line-height:1}#offers{flex-basis:100%;justify-content:flex-end}
+
+.jelajah-copy{margin:10px 0 18px}.jelajah-copy-icon svg{width:54px;height:54px;display:block;margin-bottom:10px}.jelajah-copy ul{list-style:none;padding:0;margin:0;display:grid;gap:10px}.jelajah-copy li{position:relative;padding-left:19px;font-size:14px;line-height:1.5}.jelajah-copy li:before{content:'•';position:absolute;left:0;color:#ffda81;font-weight:800}#activityIntro,#autopilotDialog{max-height:88dvh;overflow:auto}.jelajah-copy+button{margin-top:4px}

diff --git a/js/version.js b/js/version.js
@@ -1,6 +1,6 @@
 /* Pahlawan Angka — single source of truth for release version.
    Future releases should bump ONLY this value. */
-globalThis.PA_APP_VERSION='3.87.78';
+globalThis.PA_APP_VERSION='3.87.79';
 
 (function syncVersionUi(){
   if(typeof document==='undefined')return;

diff --git a/review/jelajah-final-verification.md b/review/jelajah-final-verification.md
@@ -33,3 +33,5 @@ Paced preview deployment: 6ae1bbb6a46529568116f833; source ed52f36. This draft i
 Public draft Darjah 2 user-paced worked-example audit passed. Production remains 6added09bf3b6b33d6e1d792.
 
 Production release 3.87.78 explicitly authorized on 28 October 2026. CTA polished to Mulakan Pengembaraan. Real production package preserves the original root, login and pricing; mobile release audit passed at 320/390px, 38 access/isolation/lock/funnel checks passed, asset manifest validated. Offline cache test verifies demo navigation cannot replace the game shell. All earlier six-grade gameplay and paced-worked-example fixes are included.
+
+3.87.79: approved point copy and SVG integrated into pre-autopilot, pre-mini-game, pre-coach and post-activity summaries. Parent report/popup audit passed; 38 access/isolation/funnel/lock checks passed; asset manifest current.

diff --git a/docs/DEMO-JELAJAH-V1.md b/docs/DEMO-JELAJAH-V1.md
@@ -68,3 +68,5 @@ Current draft preview: https://6ae1bbb6a46529568116f833--pahlawanangka.netlify.a
 Worked examples now advance only through Seterusnya clicks. There is no timed step advancement; each finished example remains visible until Contoh seterusnya or Selesai is clicked.
 
 Production demo: https://pahlawanangka.netlify.app/demo-jelajah.html
+
+Release 3.87.79: owner-approved before/after parent explanations use 2–3 short points and decorative static SVG. Autopilot explicitly explains intentional simulated errors. Copy and SVG style derived from the approved local preview; fun-isometric by Kelvin Adithya, MIT (https://skills.klvn.dev/fun-isometric). Gameplay, mastery isolation and user-paced worked steps are unchanged.
